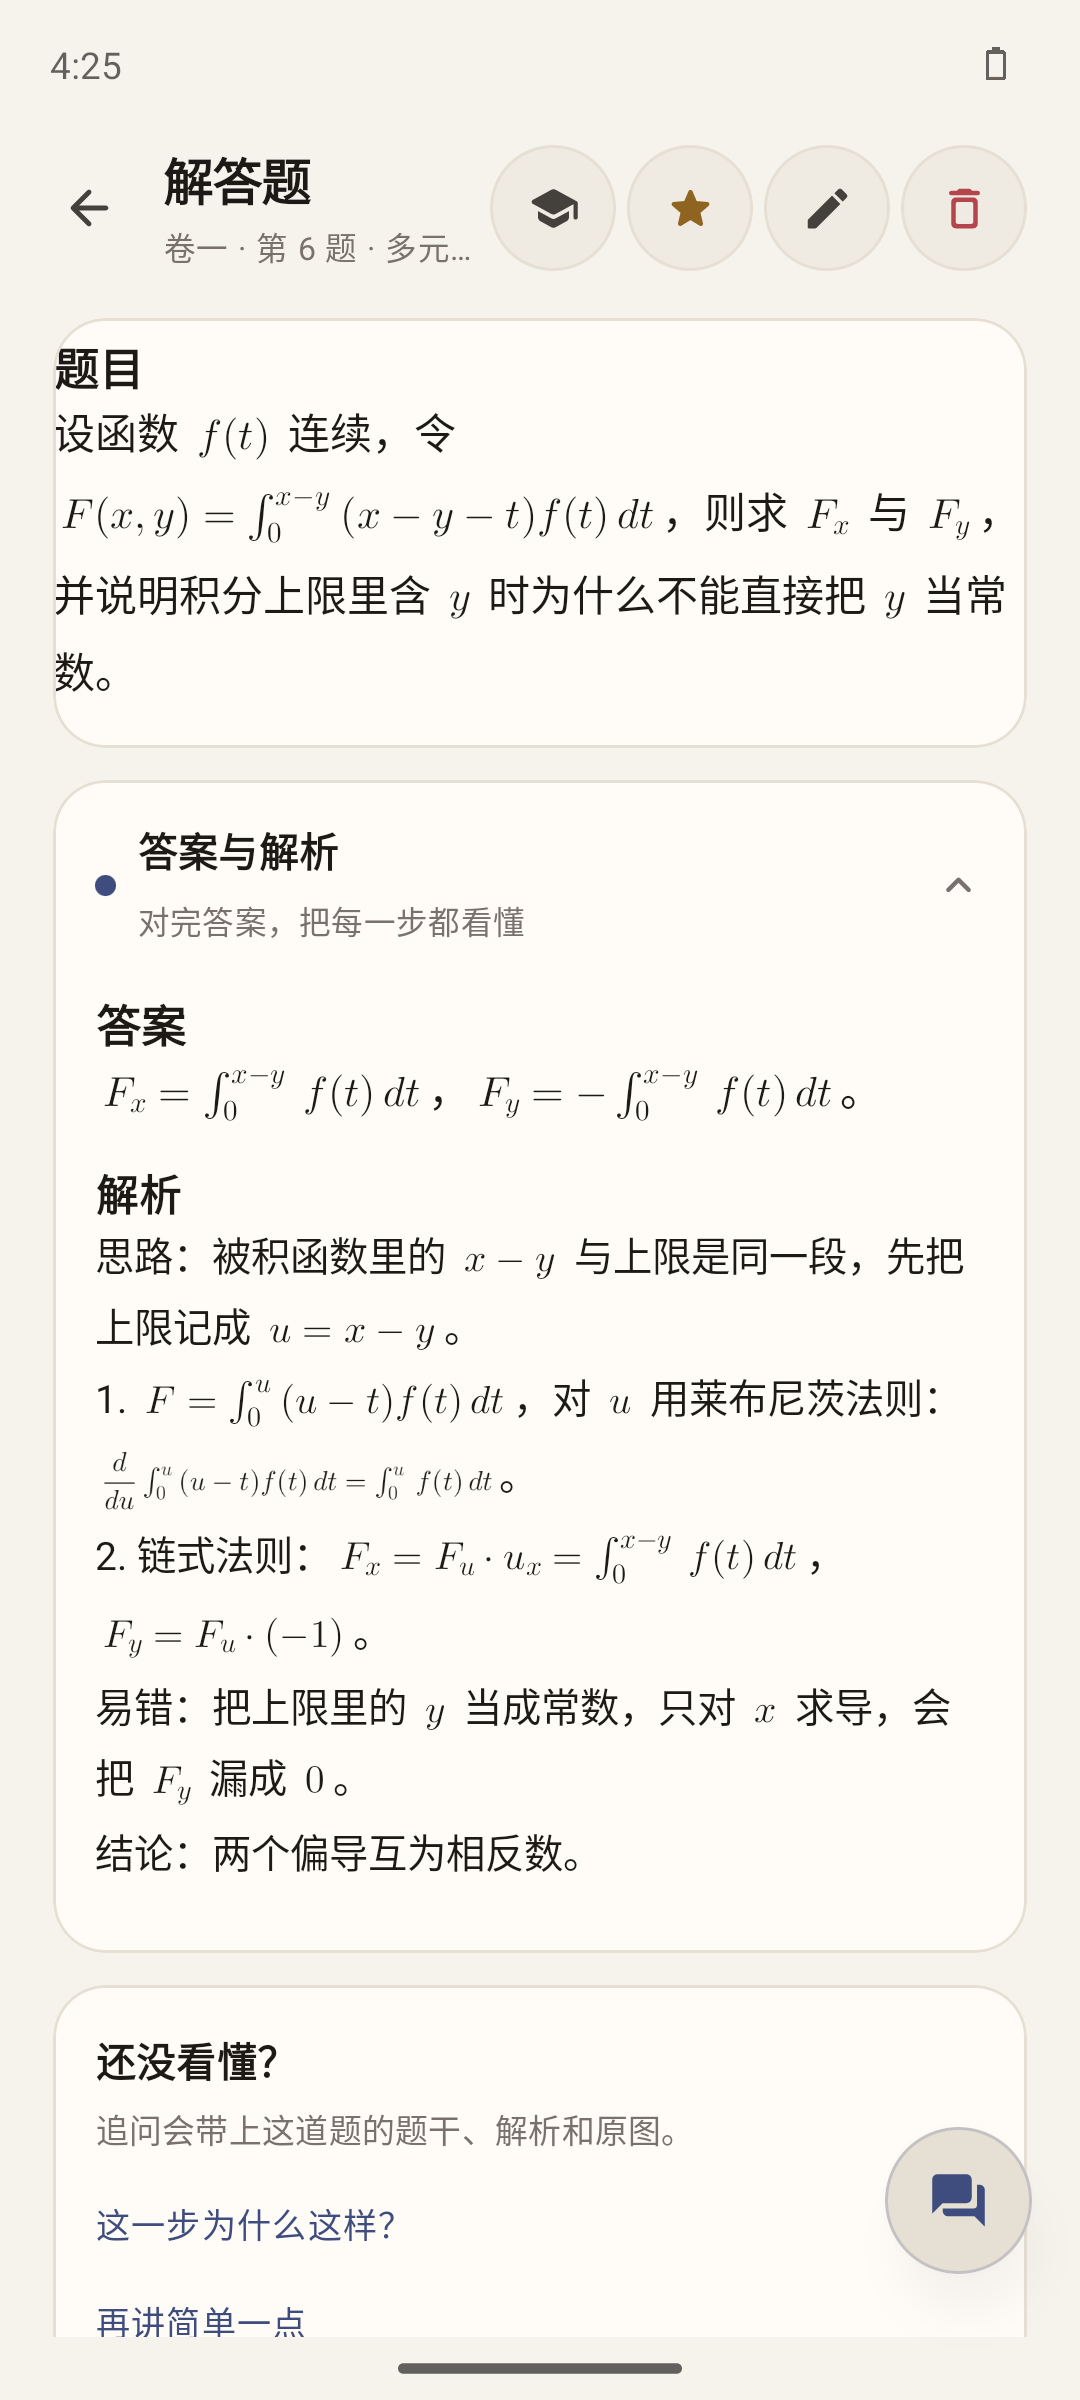
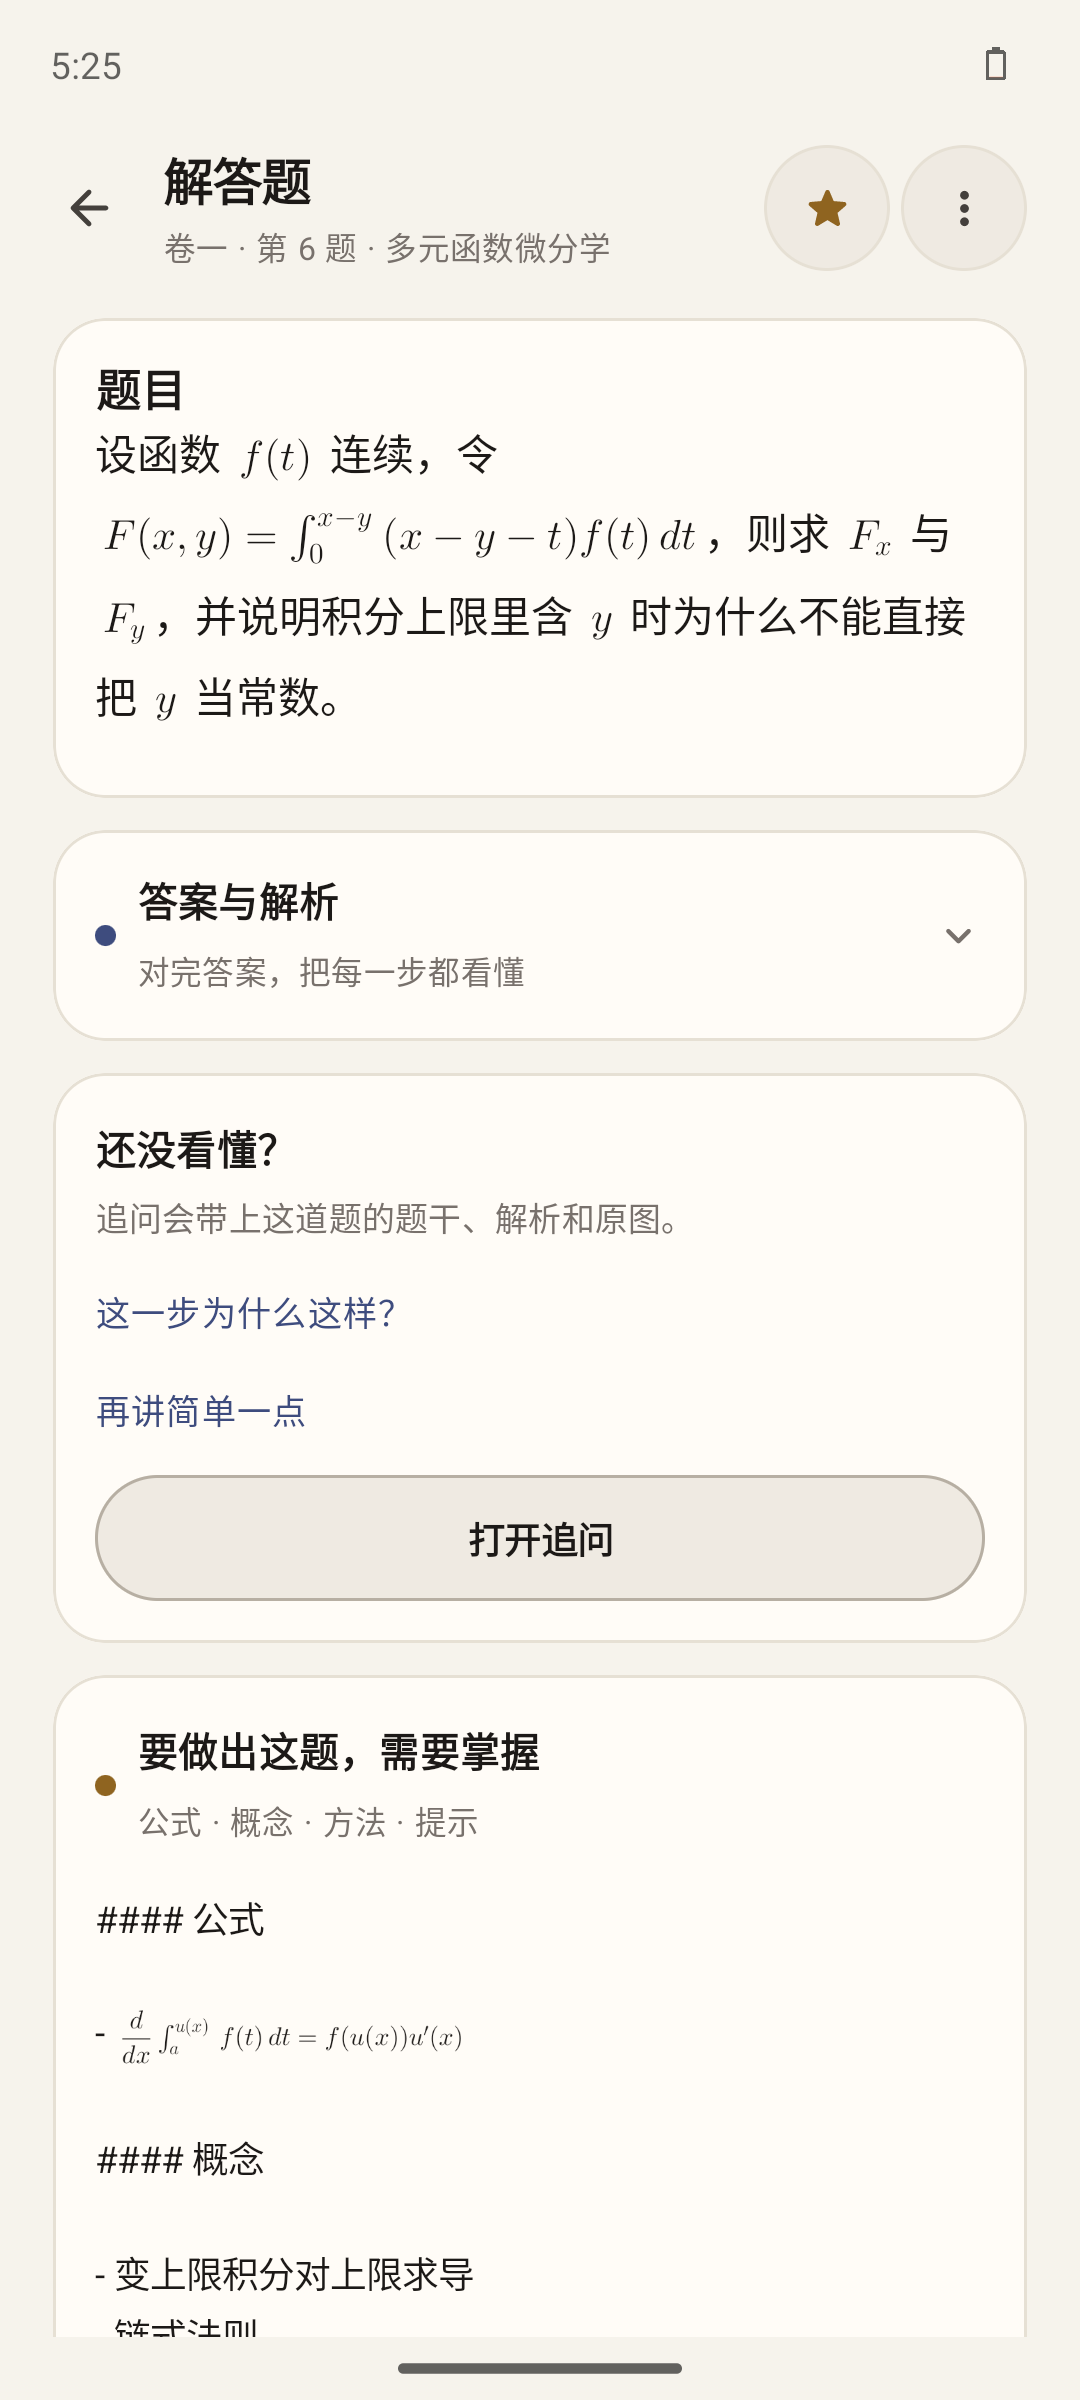
8.16.1：详情页留白、顶栏收成菜单，首页不再重复到期提示
题目卡在公式降级时补上与答案卡相同的内边距。顶栏只留标星，编辑、删除和练习收进菜单。详情页去掉会盖住追问的悬浮按钮。KaTeX 行内公式改为与列表相同的正文字号和基线。

diff --git a/app/src/main/java/com/zhuquan/tijian/ui/HomeScreens.kt b/app/src/main/java/com/zhuquan/tijian/ui/HomeScreens.kt
@@ -50,7 +50,7 @@ import androidx.compose.material.icons.rounded.DeleteOutline
 import androidx.compose.material.icons.rounded.Edit
 import androidx.compose.material.icons.rounded.GridView
 import androidx.compose.material.icons.rounded.PlayCircle
-import androidx.compose.material.icons.rounded.MenuBook
+import androidx.compose.material.icons.rounded.MoreVert
 import androidx.compose.material.icons.rounded.ExpandLess
 import androidx.compose.material.icons.rounded.ExpandMore
 import kotlin.math.roundToInt
@@ -150,7 +150,7 @@ fun HomeScreen(vm: AppVm, onImport: () -> Unit) {
             title = "错题本",
             subtitle = when {
                 vm.stats.total == 0 -> "拍一道错题，看懂后再复习"
-                vm.stats.due > 0 -> "${vm.stats.due} 道到了复习时间"
+                vm.stats.due > 0 -> null
                 else -> "${vm.stats.total} 道 · 今天没有到期"
             },
             actions = {
@@ -1161,6 +1161,7 @@ fun QuestionDetailScreen(vm: AppVm, route: Route.Detail? = vm.route as? Route.De
     var revealed by rememberSaveable(id) { mutableStateOf(false) }
     // 原图与识别题干快捷切换：默认看题干，免得同一内容占两屏
     var showImage by rememberSaveable(id) { mutableStateOf(false) }
+    var moreMenu by remember { mutableStateOf(false) }
     val scope = rememberCoroutineScope()
 
     LaunchedEffect(id, vm.dataRevision) {
@@ -1214,12 +1215,6 @@ fun QuestionDetailScreen(vm: AppVm, route: Route.Detail? = vm.route as? Route.De
             onBack = { vm.back() },
             actions = {
                 IconCircle(
-                    if (practice) Icons.Rounded.MenuBook else Icons.Rounded.School,
-                    if (practice) "切换到阅读模式" else "切换到练习模式",
-                ) {
-                    if (practice) { practice = false; revealed = false } else practice = true
-                }
-                IconCircle(
                     if (question.starred) Icons.Rounded.Star else Icons.Rounded.StarBorder,
                     if (question.starred) "取消标星" else "标为重要",
                     tint = if (question.starred) Amber else Ink2,
@@ -1229,8 +1224,29 @@ fun QuestionDetailScreen(vm: AppVm, route: Route.Detail? = vm.route as? Route.De
                     vm.cacheQuestion(question.copy(starred = next))
                     vm.setStarred(question.id, next)
                 }
-                IconCircle(Icons.Rounded.Edit, "编辑") { editing = true }
-                IconCircle(Icons.Rounded.DeleteOutline, "删除", tint = Red) { confirmDelete = true }
+                Box {
+                    IconCircle(Icons.Rounded.MoreVert, "更多") { moreMenu = true }
+                    androidx.compose.material3.DropdownMenu(
+                        expanded = moreMenu,
+                        onDismissRequest = { moreMenu = false },
+                    ) {
+                        androidx.compose.material3.DropdownMenuItem(
+                            text = { Text(if (practice) "改为阅读" else "改为练习", fontSize = 14.sp) },
+                            onClick = {
+                                moreMenu = false
+                                if (practice) { practice = false; revealed = false } else practice = true
+                            },
+                        )
+                        androidx.compose.material3.DropdownMenuItem(
+                            text = { Text("编辑", fontSize = 14.sp) },
+                            onClick = { moreMenu = false; editing = true },
+                        )
+                        androidx.compose.material3.DropdownMenuItem(
+                            text = { Text("删除", fontSize = 14.sp, color = Red) },
+                            onClick = { moreMenu = false; confirmDelete = true },
+                        )
+                    }
+                }
             }
         )
         Column(Modifier.weight(1f).verticalScroll(detailScroll).padding(horizontal = Space.page, vertical = 8.dp)) {
@@ -1321,14 +1337,14 @@ fun QuestionDetailScreen(vm: AppVm, route: Route.Detail? = vm.route as? Route.De
             }
             if (hasStemText(stemText) && !(hasImage && showImage)) {
                 CardBox {
-                    Column(Modifier.padding(vertical = 6.dp)) {
-                        RichText(
-                            markdown = "",
-                            sections = listOf(RichSectionSpec("题目", stemText, "", Ink2.toHexColor(), s(16), kind = "stem")),
-                            selectable = true,
-                            onAsk = { vm.openChat(it) },
-                        )
-                    }
+                    RichText(
+                        markdown = "",
+                        sections = listOf(RichSectionSpec("题目", stemText, "", Ink2.toHexColor(), s(16), kind = "stem")),
+                        selectable = true,
+                        onAsk = { vm.openChat(it) },
+                        fallbackHorizontal = 16.dp,
+                        fallbackVertical = 14.dp,
+                    )
                 }
                 Spacer(Modifier.height(12.dp))
             }
@@ -1568,8 +1584,7 @@ fun QuestionDetailScreen(vm: AppVm, route: Route.Detail? = vm.route as? Route.De
             ) {
                 NoteCardContent(vm, question)
             }
-            // 底部留出悬浮追问球的高度，最后一张卡（掌握度）能滚到球上方，不被压住。
-            Spacer(Modifier.height(96.dp))
+            Spacer(Modifier.height(24.dp))
         }
     }
 

diff --git a/app/src/main/assets/richtext/renderer.html b/app/src/main/assets/richtext/renderer.html
@@ -95,11 +95,11 @@
   table th { background: var(--surface-alt); font-weight: 700; color: var(--ink); }
   table tr:nth-child(even) td { background: rgba(var(--accent-rgb),.04); }
   img { max-width: 100%; height: auto; border-radius: 8px; }
-  .katex { font-size: 1.04em; word-break: normal; overflow-wrap: normal; }
-  /* An inline-block contributes tall fractions/roots to the paragraph line box.
-     Scrolling belongs to these formula boxes, not to the whole document. */
-  .math-inline { display: inline-block; vertical-align: middle; max-width: 100%; overflow-x: auto; }
-  .math-inline > .katex { display: inline-block; padding: .2em 0; }
+  /* 与 MathText 的 STYLE_TEXT 对齐：行内公式字号等于正文，基线贴着汉字。
+     高于正文 1.7 倍的公式由 fitInlineMath 缩小，而不是改成展示样式。 */
+  .katex { font-size: 1em; word-break: normal; overflow-wrap: normal; }
+  .math-inline { display: inline-block; vertical-align: baseline; max-width: 100%; overflow-x: auto; }
+  .math-inline > .katex { vertical-align: baseline; padding: 0; }
   .math-display { display: block; max-width: 100%; overflow-x: auto; margin: 12px 0; }
   .math-display .katex-display { margin: 0; padding: .2em 0; }
   .math-display .katex-display > .katex { text-align: left; }
@@ -283,6 +283,20 @@
   // CSS px are dp at the measured viewport width. Neither body nor document
   // scrollHeight may be used here: they are at least the current viewport height,
   // creating an unbounded feedback loop when the native view grows.
+  function fitInlineMath() {
+    var bodyPx = parseFloat(getComputedStyle(document.body).fontSize) || 16;
+    var cap = bodyPx * 1.7;
+    var nodes = document.querySelectorAll('.math-inline > .katex:not([data-fit])');
+    for (var i = 0; i < nodes.length; i++) {
+      var el = nodes[i];
+      var h = el.getBoundingClientRect().height;
+      el.setAttribute('data-fit', '1');
+      if (h > cap + 0.5) {
+        var fs = parseFloat(getComputedStyle(el).fontSize) || bodyPx;
+        el.style.fontSize = (fs * cap / h) + 'px';
+      }
+    }
+  }
   function measure() {
     var el = document.getElementById('out');
     return Math.ceil(Math.max(el.getBoundingClientRect().height, el.scrollHeight));
@@ -295,6 +309,7 @@
     scheduled = true;
     requestAnimationFrame(function () {
     scheduled = false;
+    fitInlineMath();
     var h = measure();
     if (h === lastHeight) return;
     lastHeight = h;

diff --git a/app/src/main/assets/richtext/chat.html b/app/src/main/assets/richtext/chat.html
@@ -71,8 +71,9 @@
   th, td { border: 1px solid var(--line); padding: 6px 8px; text-align: left; vertical-align: top; }
   th { background: var(--surface-alt); }
   .table-wrap { overflow-x: auto; -webkit-overflow-scrolling: touch; }
-  .katex { font-size: 1.04em; }
-  .math-inline { display: inline-block; vertical-align: middle; max-width: 100%; }
+  .katex { font-size: 1em; }
+  .math-inline { display: inline-block; vertical-align: baseline; max-width: 100%; }
+  .math-inline > .katex { vertical-align: baseline; padding: 0; }
   .math-display { display: block; max-width: 100%; overflow-x: auto; -webkit-overflow-scrolling: touch; margin: 8px 0; }
   .math-display .katex-display { margin: 0; padding: .1em 0; }
   .math-display .katex-display > .katex { text-align: left; }
@@ -165,6 +166,17 @@
       var copyBtn = '<div class="copy-row"><button class="copy-btn" data-copy="' + i + '">复制全文</button></div>';
       return '<div class="row ai"><div class="card"><div class="who">题笺 AI</div>' + body + copyBtn + '</div></div>';
     }).join('');
+    var bodyPx = parseFloat(getComputedStyle(document.body).fontSize) || 14;
+    var cap = bodyPx * 1.7;
+    var nodes = out.querySelectorAll('.math-inline > .katex');
+    for (var n = 0; n < nodes.length; n++) {
+      var el = nodes[n];
+      var h = el.getBoundingClientRect().height;
+      if (h > cap + 0.5) {
+        var fs = parseFloat(getComputedStyle(el).fontSize) || bodyPx;
+        el.style.fontSize = (fs * cap / h) + 'px';
+      }
+    }
     if (scrollBottom) {
       requestAnimationFrame(function () { window.scrollTo(0, document.body.scrollHeight); });
       setTimeout(function () { window.scrollTo(0, document.body.scrollHeight); }, 120);

diff --git a/app/src/main/java/com/zhuquan/tijian/ui/RichText.kt b/app/src/main/java/com/zhuquan/tijian/ui/RichText.kt
@@ -198,6 +198,9 @@ fun RichText(
     onSelect: (String) -> Unit = {},
     onAsk: (String) -> Unit = {},
     onReady: () -> Unit = {},
+    /** WebView 退出后的降级排版没有 HTML 卡片内边距，由调用方补上。 */
+    fallbackHorizontal: androidx.compose.ui.unit.Dp = 0.dp,
+    fallbackVertical: androidx.compose.ui.unit.Dp = 0.dp,
 ) {
     if (sections == null && markdown.isBlank()) return
     val context = LocalContext.current
@@ -254,7 +257,7 @@ fun RichText(
     val crashed = remember { mutableStateOf(false) }
     val onRendererGone = rememberUpdatedState { crashed.value = true }
     if (crashed.value) {
-        RichPlainFallback(markdown, sections, scaledFontSize)
+        RichPlainFallback(markdown, sections, scaledFontSize, fallbackHorizontal, fallbackVertical)
         return@BoxWithConstraints
     }
 
@@ -380,8 +383,14 @@ fun RichText(
 
 /** WebView 渲染进程退出后的同一套行内公式，避免详情页空白或把应用杀掉。 */
 @Composable
-private fun RichPlainFallback(markdown: String, sections: List<RichSectionSpec>?, fontSize: Int) {
-    Column(Modifier.fillMaxWidth()) {
+private fun RichPlainFallback(
+    markdown: String,
+    sections: List<RichSectionSpec>?,
+    fontSize: Int,
+    horizontal: androidx.compose.ui.unit.Dp,
+    vertical: androidx.compose.ui.unit.Dp,
+) {
+    Column(Modifier.fillMaxWidth().padding(horizontal = horizontal, vertical = vertical)) {
         if (sections.isNullOrEmpty()) {
             if (markdown.isNotBlank()) {
                 MathText(markdown, Ink, fontSize.toFloat(), Modifier.fillMaxWidth())

diff --git a/app/src/main/java/com/zhuquan/tijian/ui/ChatOverlay.kt b/app/src/main/java/com/zhuquan/tijian/ui/ChatOverlay.kt
@@ -76,10 +76,9 @@ import kotlinx.coroutines.withContext
 @Composable
 fun ChatOverlay(vm: AppVm) {
     BackHandler(enabled = vm.chatOpen) { vm.closeChat() }
-    // 悬浮球只在「有题目上下文」的页面出现（详情 / 复习）。识别校对、导入工作台
-    // 这类页面它没有可追问的对象，留在那里只会压住「确认入库」「开始识别」等主按钮。
-    // 复习揭晓前不放追问球：这一步是自己回想。看解析、追问发生在题目详情里。
-    val contextual = vm.route is Route.Detail || (vm.route is Route.Review && vm.revealAnswer)
+    // 详情页已经有「还没看懂？」卡片，不再叠一颗会盖住它的悬浮球。
+    // 复习揭晓后没有这张卡片，才保留追问球。揭晓前不放：那一步是自己回想。
+    val contextual = vm.route is Route.Review && vm.revealAnswer
     when {
         vm.chatOpen -> ChatPanel(vm)
         contextual -> ChatFab(vm)

diff --git a/docs/releases/8.16.1.md b/docs/releases/8.16.1.md
@@ -6,6 +6,7 @@
 - 打印页的勾选框回到正常大小，不再压住主题名和题数。只印题目 / 附上答案是分段开关。没勾选时「分享」和「先勾选题目」能分清。
 - 详情、复习、知识库在公式渲染进程退出时改走行内公式，不再把整个应用杀掉。PDF 在富文本位图失败时也走同一套公式，不再印出 `x^2`、`e^{xy}`。
 - 图标和勾选框不再被系统的最小点击区域撑大后飞出卡片。顶栏标题不会被右侧按钮挤没。
+- 题目详情里，「题目」卡和「答案与解析」一样留出内边距。顶栏只留标星，编辑、删除和练习模式收进菜单。追问留在「还没看懂？」里，不再用悬浮按钮盖住它。首页不再把「到了复习时间」说两遍。真机上的公式排版与列表里的行内公式同一字号、同一基线。
 
 数据库仍是 8，不迁移。已有错题、复习进度和设置都保留。
 
